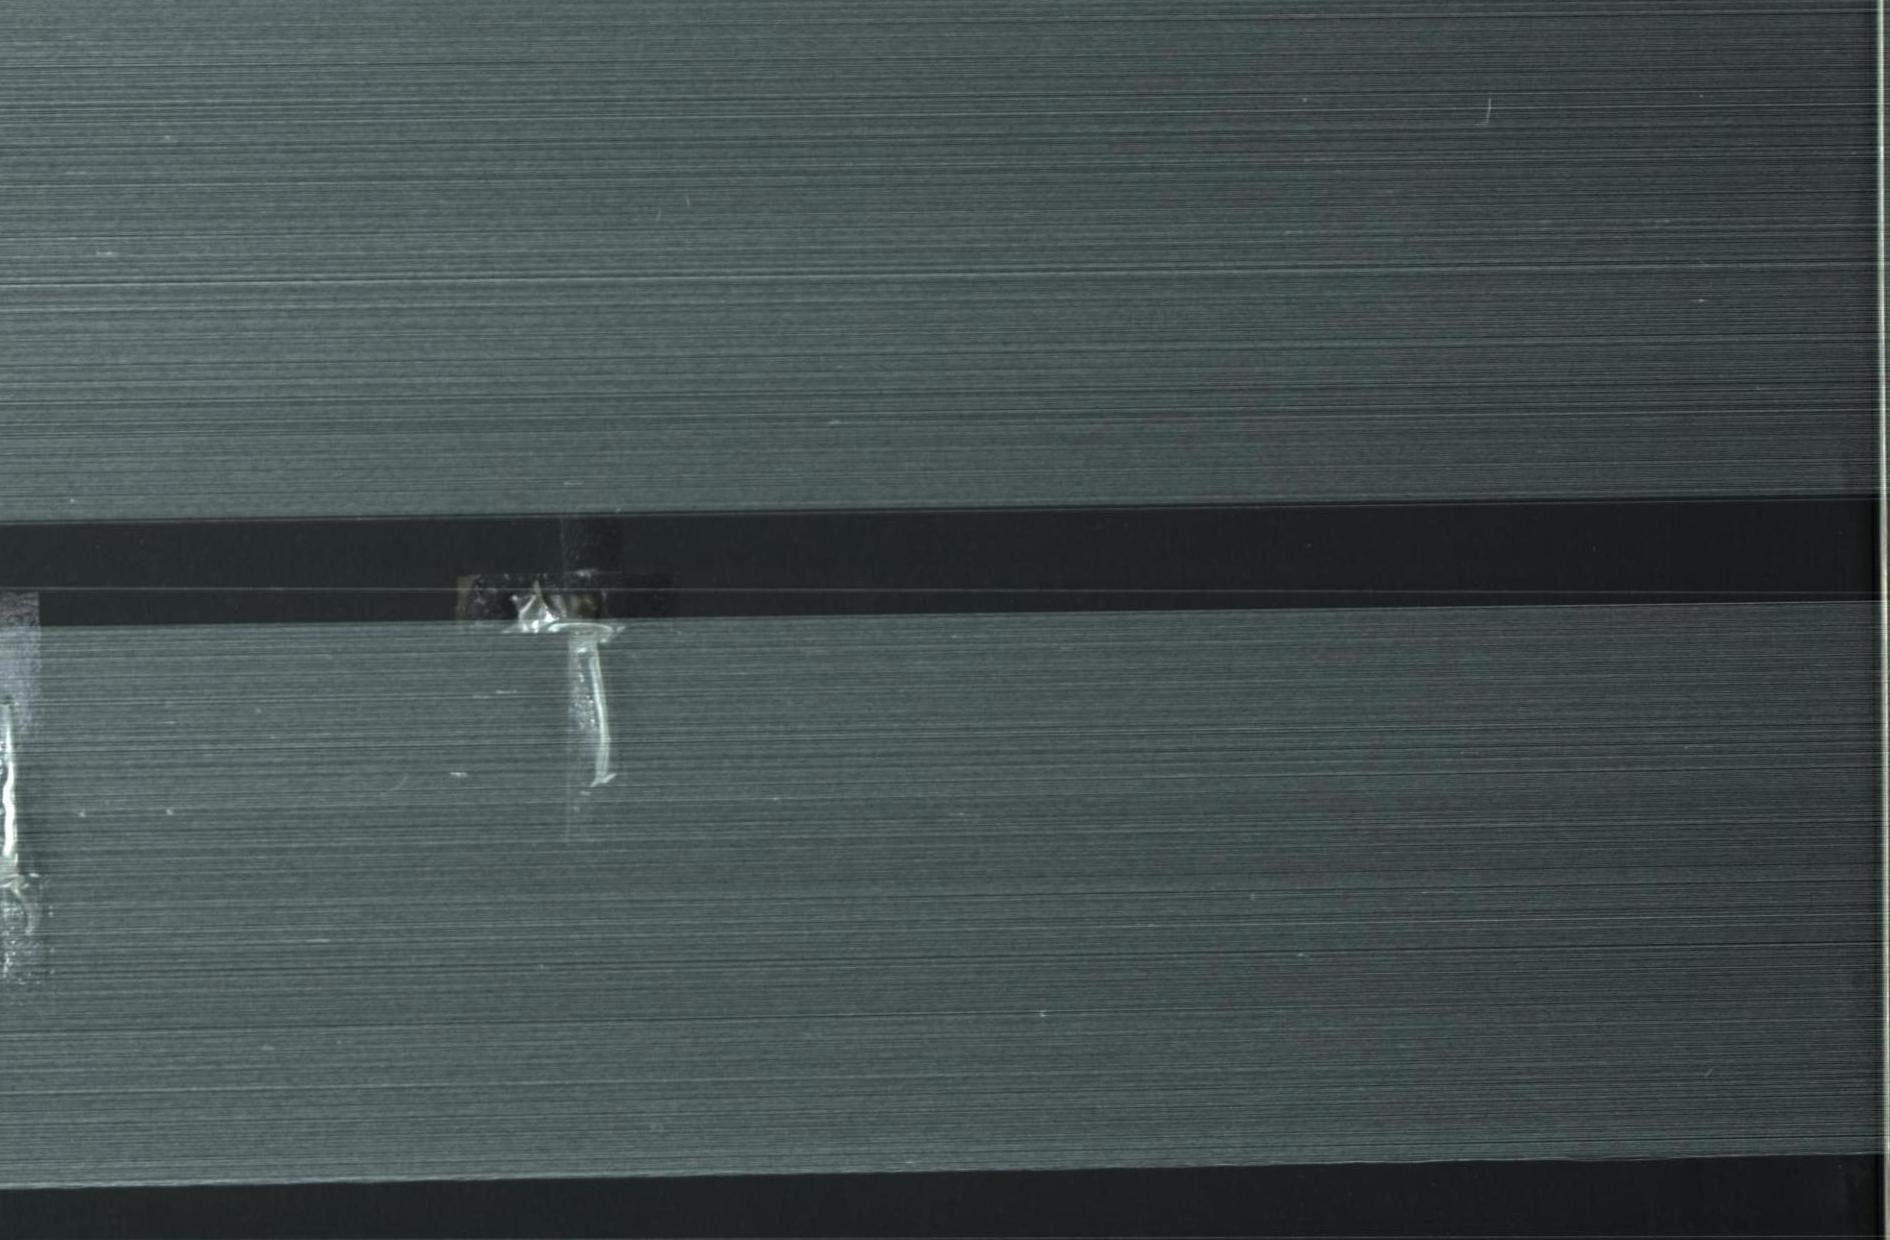
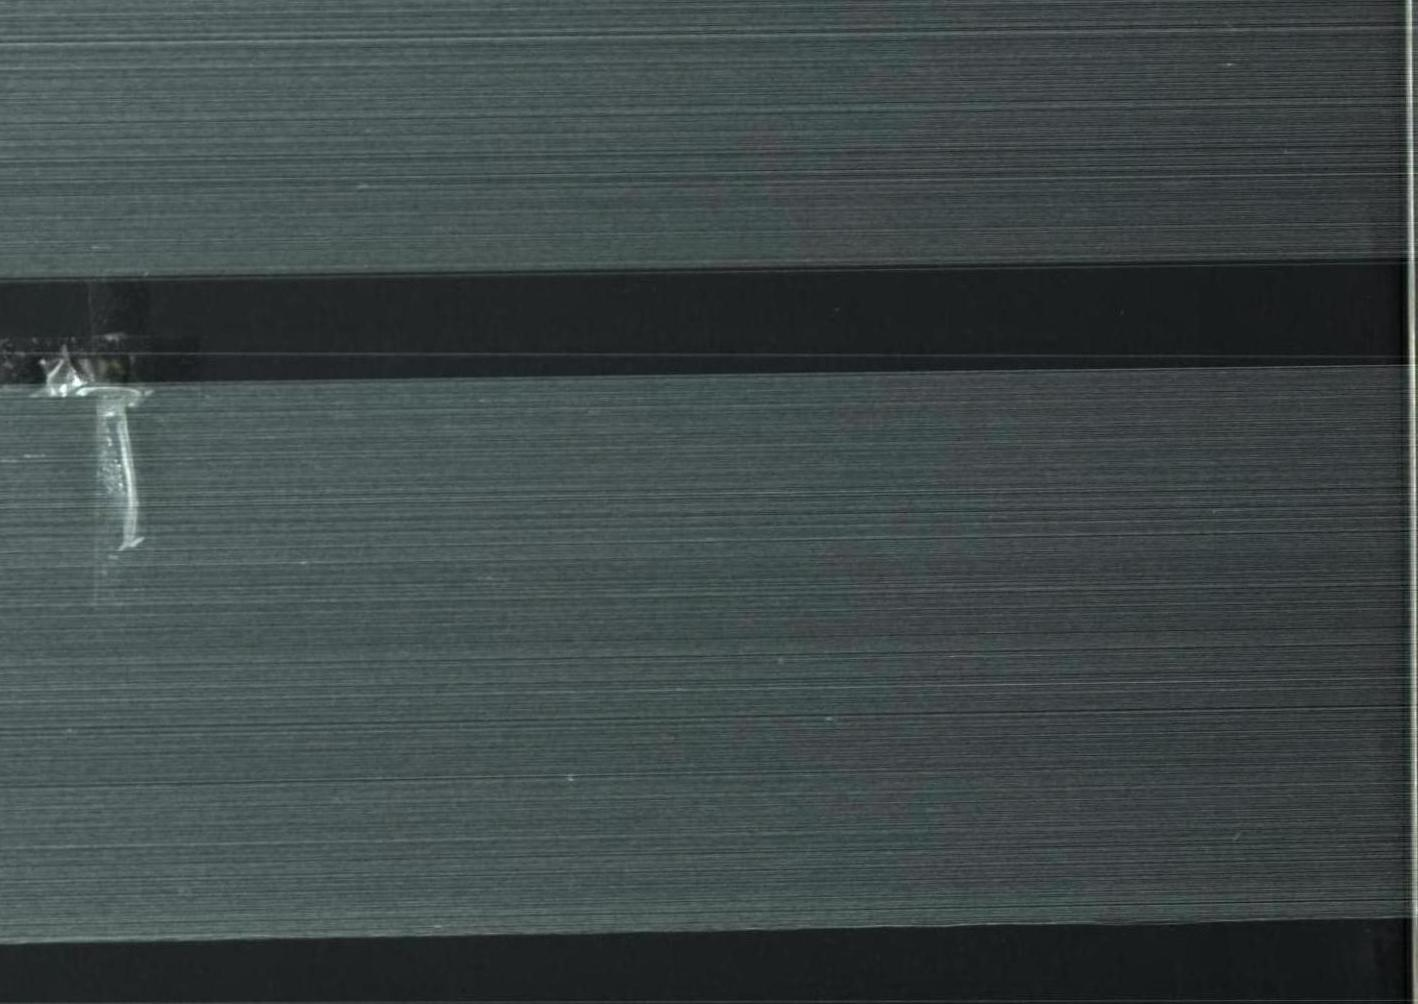
panel files logs

diff --git a/seriplane/app.py b/seriplane/app.py
@@ -13,70 +13,93 @@ app = Flask(__name__, static_folder="static")
 def home():
     return app.send_static_file("index.html")
 
-from datetime import datetime
-from flask import request, jsonify
-import os
+
+import shutil
+import re
 
 @app.route("/home", methods=["POST"])
 def home_reset():
     data = request.json or {}
 
-    # ---------------- SAVE LOGS ----------------
-    os.makedirs("logs", exist_ok=True)
-    timestamp = datetime.now().strftime("%Y%m%d_%H%M%S")
-
-    # Save Evenness CSV
-    if data.get("evenness", "").strip():
-        with open(f"logs/evenness_{timestamp}.csv", "w") as f:
-            f.write(data["evenness"])
-
-    # Save Neatness & Cleanness CSV
-    if data.get("neatness", "").strip():
-        with open(f"logs/neatness_cleanness_{timestamp}.csv", "w") as f:
-            f.write(data["neatness"])
-
-    # ---------------- DELETE RESULT CSVs ----------------
-    for fpath in [
-        os.path.join(RESULT_DIR, "evenness.csv"),
-        os.path.join(RESULT_DIR, "neatness_cleanness.csv")
-    ]:
-        if os.path.exists(fpath):
-            os.remove(fpath)
-
-    # ---------------- DELETE PREPROCESSED IMAGES ----------------
+    # ---------------- BASE DIRECTORIES ----------------
+    LOGS_DIR = os.path.join(BASE_DIR, "logs")
+    RESULT_DIR = os.path.join(BASE_DIR, "results")
     PREPROCESSED_DIR = os.path.join(BASE_DIR, "preprocessed")
 
+    os.makedirs(LOGS_DIR, exist_ok=True)
+
+    # ---------------- FIND NEXT PANEL NUMBER ----------------
+    panel_numbers = []
+
+    for name in os.listdir(LOGS_DIR):
+        match = re.match(r"panel(\d+)", name)
+        if match:
+            panel_numbers.append(int(match.group(1)))
+
+    next_panel = max(panel_numbers) + 1 if panel_numbers else 1
+
+    if next_panel > 100:
+        return jsonify({"error": "Maximum panel limit reached"}), 400
+
+    PANEL_DIR = os.path.join(LOGS_DIR, f"panel{next_panel}")
+    os.makedirs(PANEL_DIR)
+
+    # ---------------- SAVE UPDATED CSVs ----------------
+    if data.get("evenness", "").strip():
+        with open(os.path.join(PANEL_DIR, "evenness.csv"), "w") as f:
+            f.write(data["evenness"])
+
+    if data.get("neatness", "").strip():
+        with open(os.path.join(PANEL_DIR, "neatness_cleanness.csv"), "w") as f:
+            f.write(data["neatness"])
+
+    # ---------------- COPY RESULT SUBFOLDERS ----------------
+    for sub in ["evenness", "neatness"]:
+        src = os.path.join(RESULT_DIR, sub)
+        dst = os.path.join(PANEL_DIR, sub)
+
+        if os.path.exists(src):
+            shutil.copytree(src, dst)
+
+    # ---------------- CLEAN RESULT CSVs ----------------
+    for f in ["evenness.csv", "neatness_cleanness.csv"]:
+        path = os.path.join(RESULT_DIR, f)
+        if os.path.exists(path):
+            os.remove(path)
+
+    # ---------------- CLEAN PREPROCESSED IMAGES ----------------
     if os.path.exists(PREPROCESSED_DIR):
-        for filename in os.listdir(PREPROCESSED_DIR):
-            file_path = os.path.join(PREPROCESSED_DIR, filename)
+        for file in os.listdir(PREPROCESSED_DIR):
+            file_path = os.path.join(PREPROCESSED_DIR, file)
+            if os.path.isfile(file_path):
+                os.remove(file_path)
+
+    # ---------------- DELETE EVENNESS IMAGES ----------------
+    EVENNESS_DIR = os.path.join(BASE_DIR, "results/evenness")
+
+    if os.path.exists(EVENNESS_DIR):
+        for filename in os.listdir(EVENNESS_DIR):
+            file_path = os.path.join(EVENNESS_DIR, filename)
 
             # delete only files (images)
             if os.path.isfile(file_path):
                 os.remove(file_path)
 
-    # ---------------- DELETE EVENNESS IMAGES ----------------
-    # PREPROCESSED_DIR = os.path.join(BASE_DIR, "results/evenness")
-
-    # if os.path.exists(PREPROCESSED_DIR):
-    #     for filename in os.listdir(PREPROCESSED_DIR):
-    #         file_path = os.path.join(PREPROCESSED_DIR, filename)
-
-    #         # delete only files (images)
-    #         if os.path.isfile(file_path):
-    #             os.remove(file_path)
-
 # ---------------- DELETE NEATNESS IMAGES ----------------
-    # PREPROCESSED_DIR = os.path.join(BASE_DIR, "results/neatness")
+    NEATNESS_DIR = os.path.join(BASE_DIR, "results/neatness")
 
-    # if os.path.exists(PREPROCESSED_DIR):
-    #     for filename in os.listdir(PREPROCESSED_DIR):
-    #         file_path = os.path.join(PREPROCESSED_DIR, filename)
+    if os.path.exists(NEATNESS_DIR):
+        for filename in os.listdir(NEATNESS_DIR):
+            file_path = os.path.join(NEATNESS_DIR, filename)
 
-    #         # delete only files (images)
-    #         if os.path.isfile(file_path):
-    #             os.remove(file_path)
+            # delete only files (images)
+            if os.path.isfile(file_path):
+                os.remove(file_path)
 
-    return jsonify({"status": "saved_all_and_reset"})
+    return jsonify({
+        "status": "panel_saved",
+        "panel": f"panel{next_panel}"
+    })
 
 
 @app.route("/execute", methods=["POST"])
